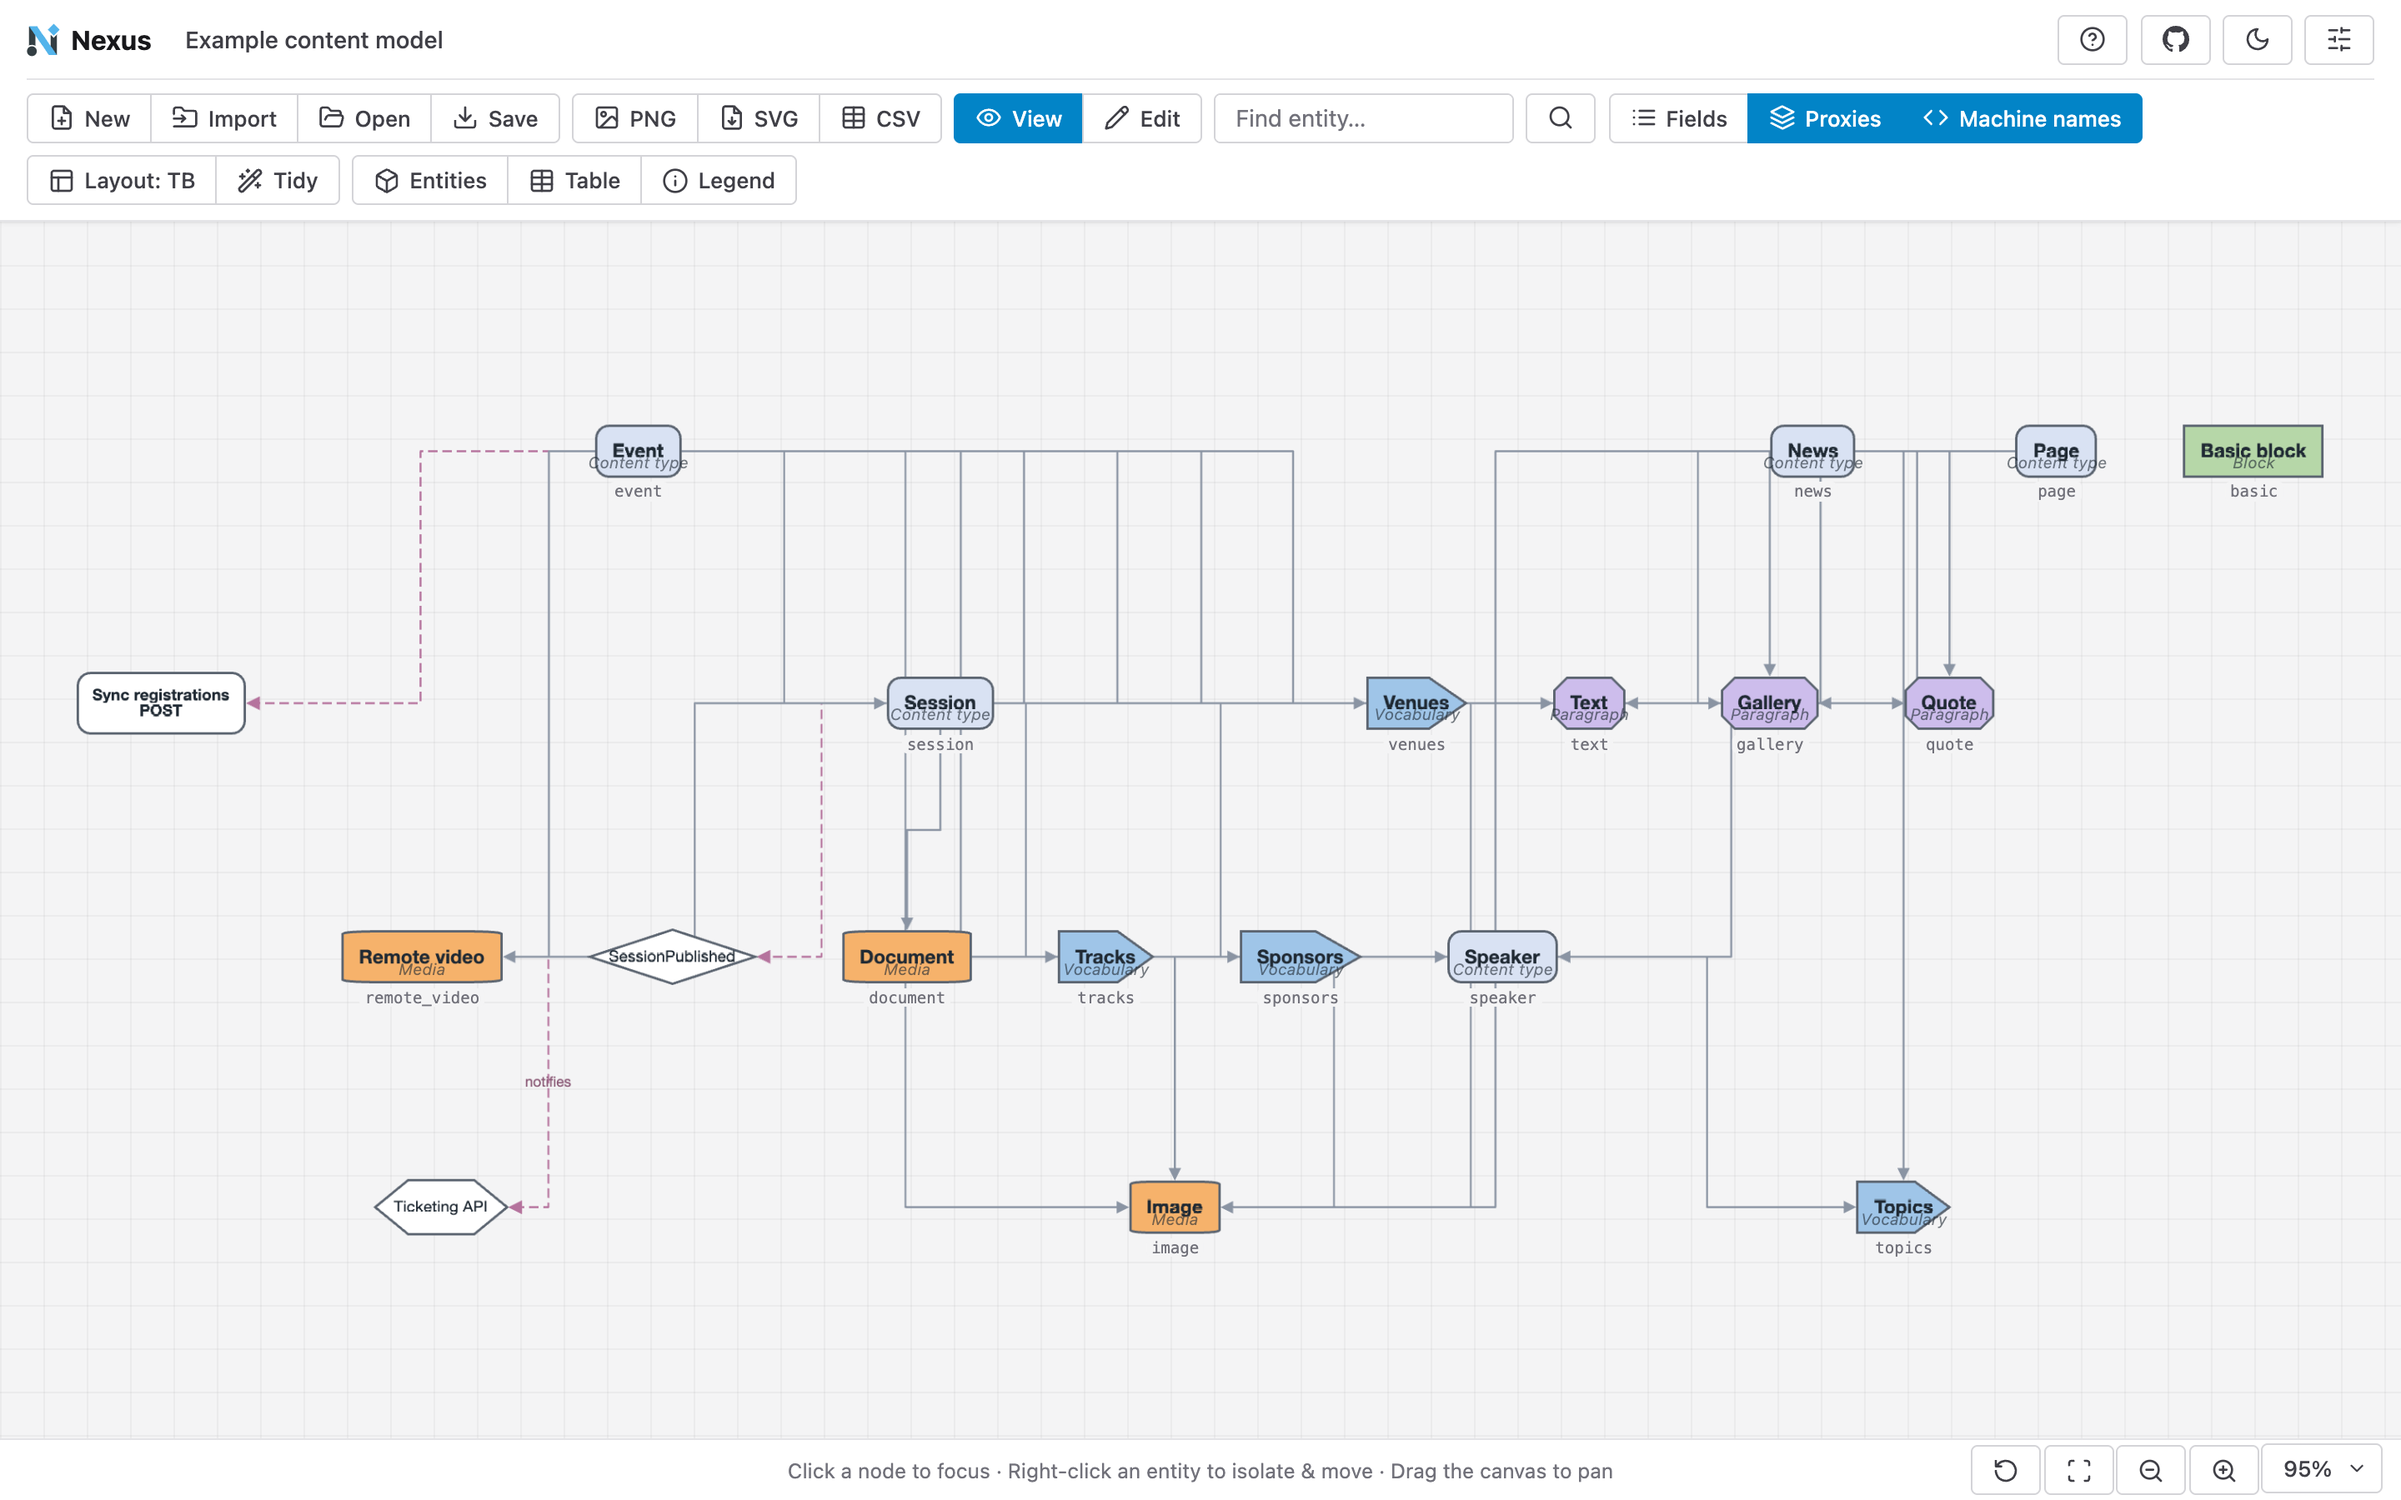
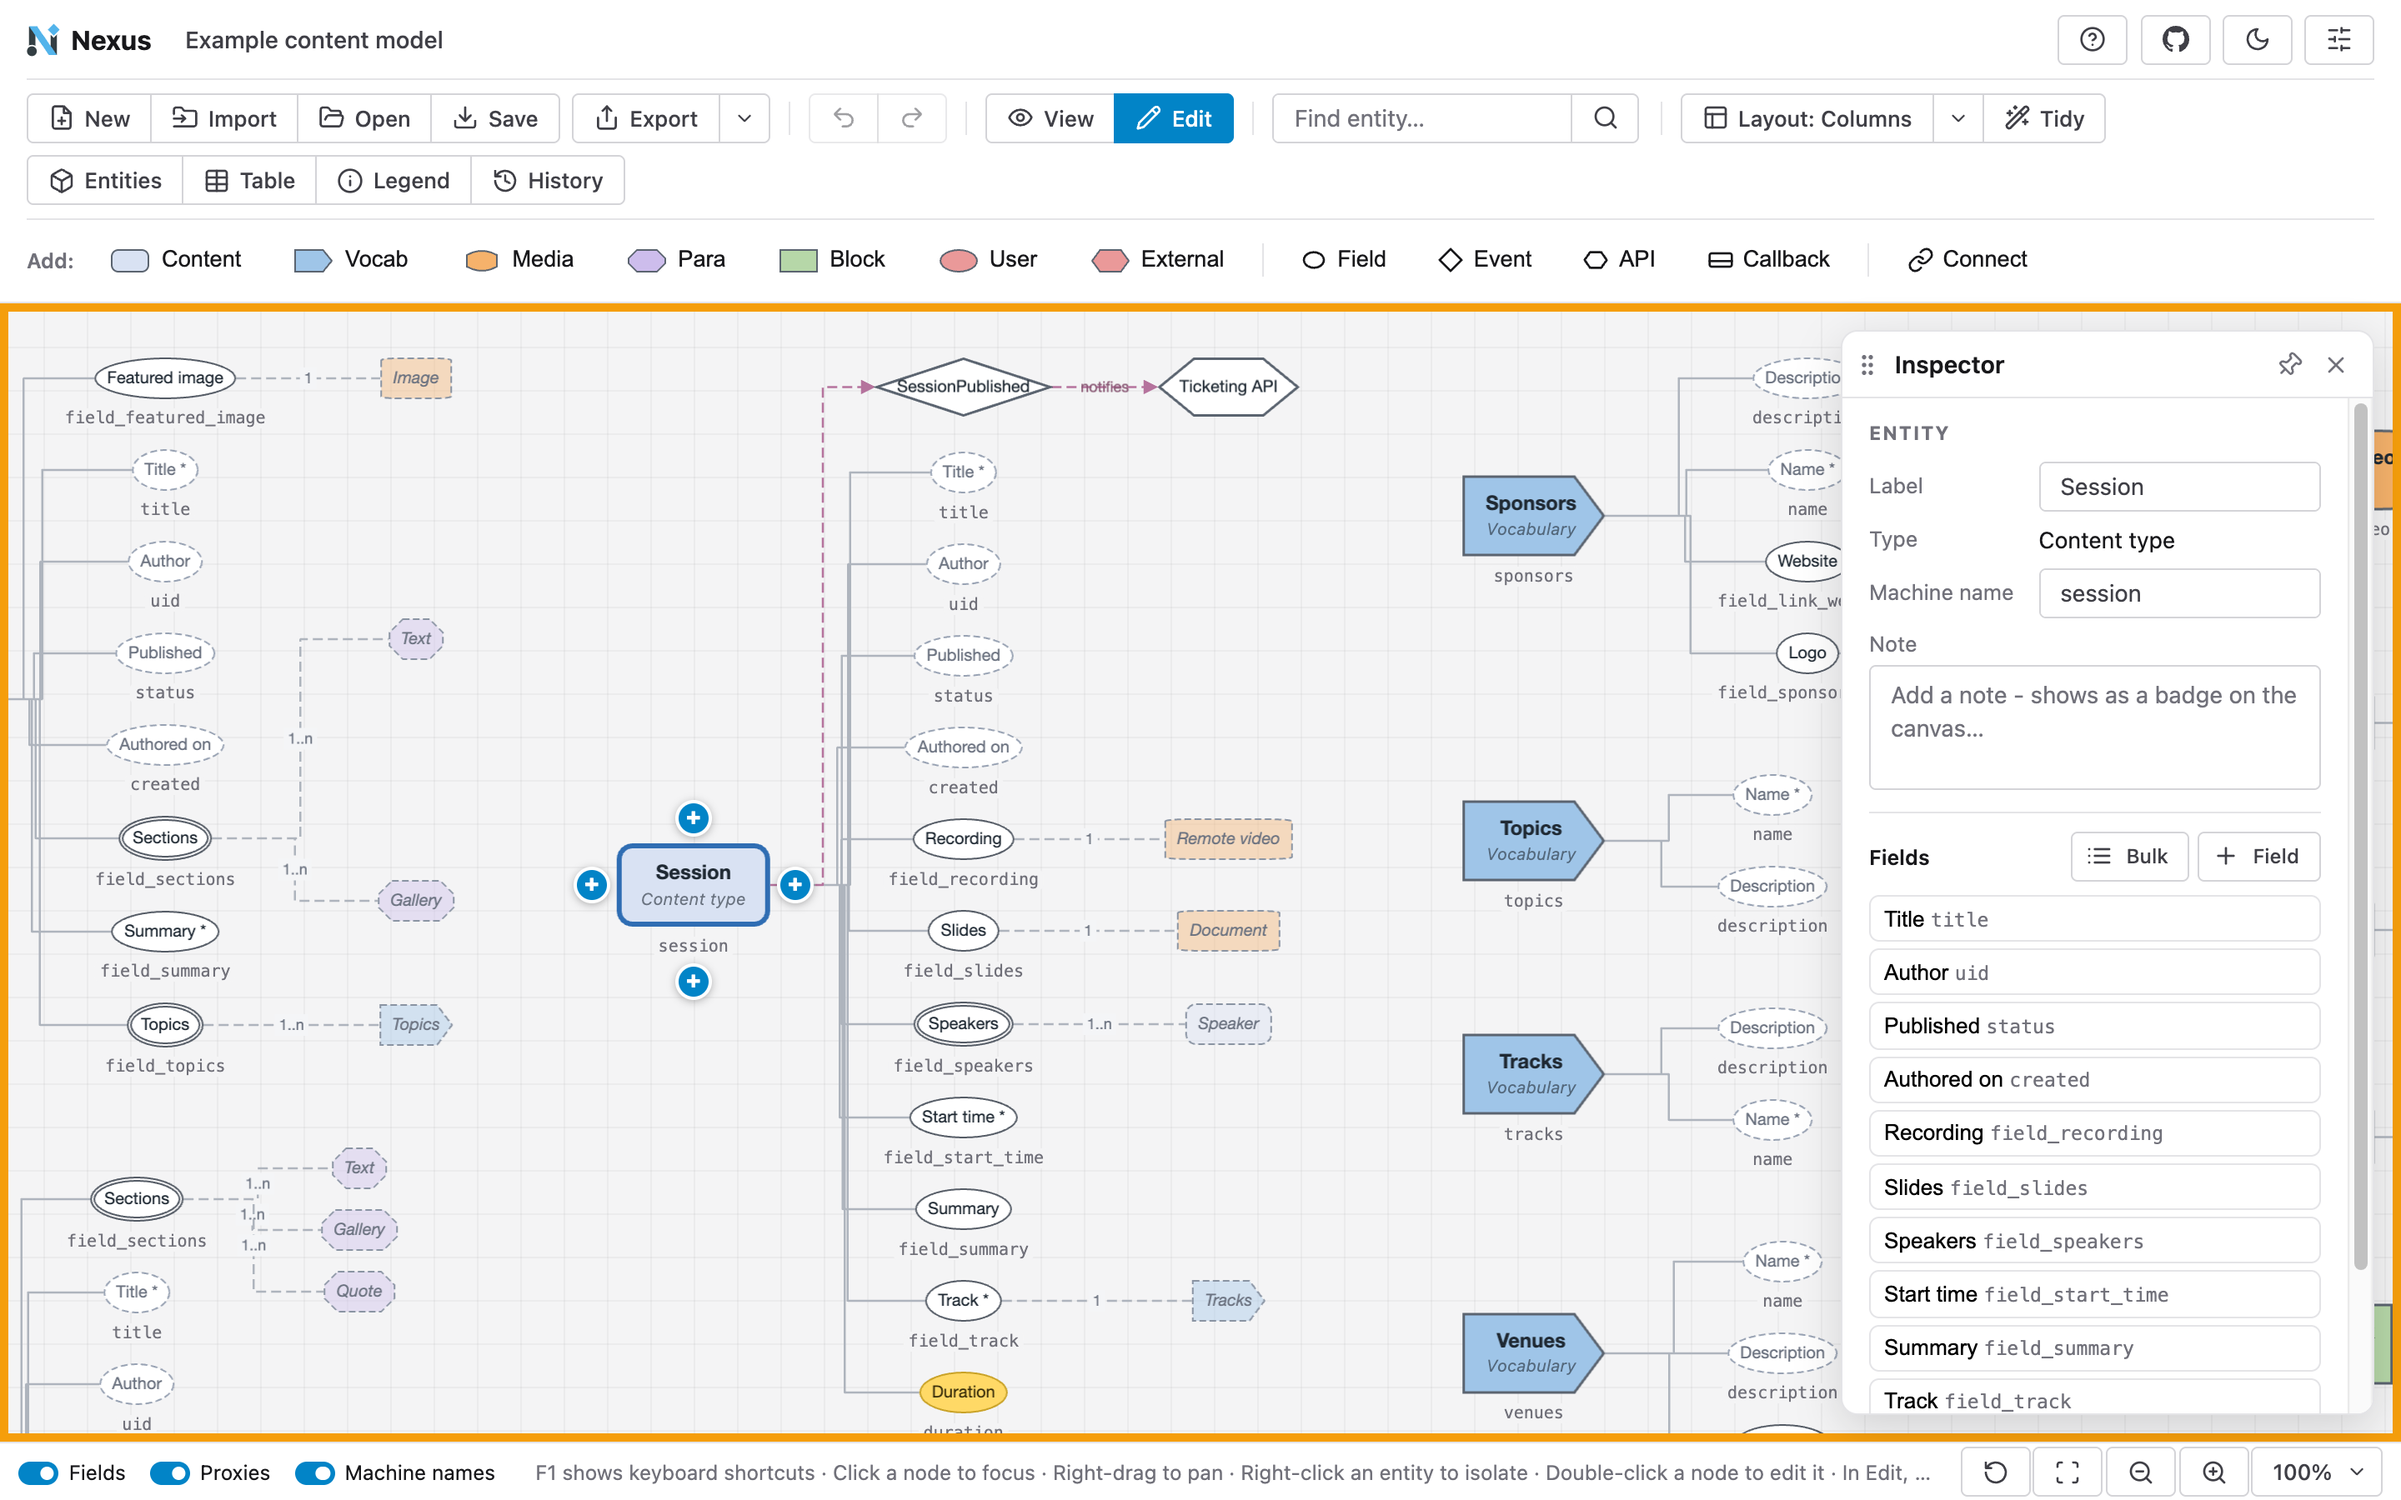
Replaced the README screenshot with Edit mode on the conference example in the light theme. (#90)

diff --git a/README.md b/README.md
@@ -26,7 +26,7 @@ Nexus is a static web app. Drop a Drupal **exported configuration folder** onto 
 
 To try changes before they're released, open the [development version](https://drevops-nexus.netlify.app). It runs the latest code merged into `main`.
 
-![A conference site's content model drawn in Nexus as an overview of its entity types, the references between them and its annotations](screenshot.png)
+![Nexus in Edit mode on a conference site's content model, with the Inspector open on the Session content type and its fields and references drawn beside it](screenshot.png)
 
 ## Features
 
